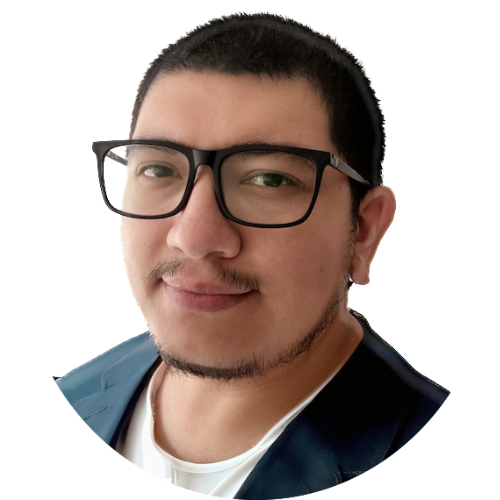
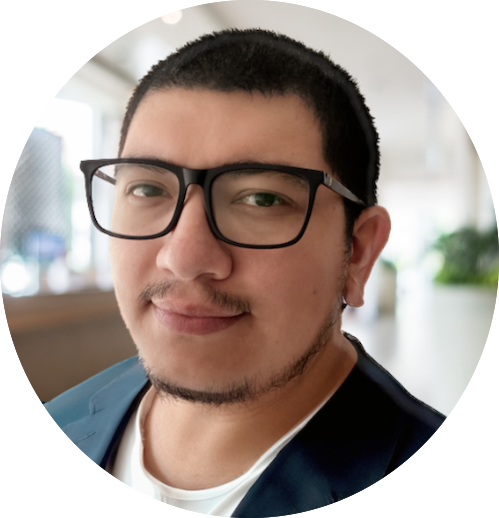
feat: actualizar enlace de formulario para dirigir datos correctamente
Se modificó la URL de destino del formulario para asegurar que los datos se envíen correctamente a la nueva ubicación.

diff --git a/js/main.js b/js/main.js
@@ -7,7 +7,6 @@ document.addEventListener("DOMContentLoaded", () => {
   const navLinksItems = document.querySelectorAll(".nav-link");
   const sections = document.querySelectorAll("section");
   const skillItems = document.querySelectorAll(".skill-item");
-  const contactForm = document.getElementById("contactForm");
   const projectCards = document.querySelectorAll(".project-card");
 
   // Función para cambiar el estilo del header al hacer scroll
@@ -74,106 +73,6 @@ document.addEventListener("DOMContentLoaded", () => {
   animateSkillsOnScroll();
   window.addEventListener("scroll", animateSkillsOnScroll);
 
-  // Validación y envío del formulario de contacto
-  if (contactForm) {
-    contactForm.addEventListener("submit", function (e) {
-      e.preventDefault();
-
-      // Obtener valores del formulario
-      const nombre = document.getElementById("nombre").value;
-      const email = document.getElementById("email").value;
-      const mensaje = document.getElementById("mensaje").value;
-
-      // Validación básica
-      if (!nombre || !email || !mensaje) {
-        showNotification("Por favor, completa todos los campos", "error");
-        return;
-      }
-
-      if (!isValidEmail(email)) {
-        showNotification("Por favor, introduce un email válido", "error");
-        return;
-      }
-
-      // Simulación de envío
-      setTimeout(() => {
-        showNotification(
-          "¡Mensaje enviado con éxito! Te responderé pronto.",
-          "success"
-        );
-        contactForm.reset();
-      }, 1500);
-
-      showNotification("Enviando mensaje...", "info");
-    });
-    
-    // Validación en tiempo real para los campos del formulario
-    const formInputs = contactForm.querySelectorAll('input, textarea');
-    
-    formInputs.forEach(input => {
-      input.addEventListener('blur', function() {
-        validateInput(this);
-      });
-      
-      input.addEventListener('input', function() {
-        if (this.classList.contains('invalid')) {
-          validateInput(this);
-        }
-      });
-    });
-    
-    function validateInput(input) {
-      const parent = input.parentElement;
-      
-      if (input.value.trim() === '') {
-        parent.classList.add('error');
-        showInputError(input, 'Este campo es obligatorio');
-        return false;
-      }
-      
-      if (input.type === 'email' && !isValidEmail(input.value)) {
-        parent.classList.add('error');
-        showInputError(input, 'Email no válido');
-        return false;
-      }
-      
-      parent.classList.remove('error');
-      hideInputError(input);
-      return true;
-    }
-    
-    function showInputError(input, message) {
-      const parent = input.parentElement;
-      let errorElement = parent.querySelector('.error-message');
-      
-      if (!errorElement) {
-        errorElement = document.createElement('span');
-        errorElement.className = 'error-message';
-        parent.appendChild(errorElement);
-      }
-      
-      errorElement.textContent = message;
-      input.classList.add('invalid');
-    }
-    
-    function hideInputError(input) {
-      const parent = input.parentElement;
-      const errorElement = parent.querySelector('.error-message');
-      
-      if (errorElement) {
-        parent.removeChild(errorElement);
-      }
-      
-      input.classList.remove('invalid');
-    }
-  }
-
-  // Función para validar email
-  function isValidEmail(email) {
-    const emailRegex = /^[^\s@]+@[^\s@]+\.[^\s@]+$/;
-    return emailRegex.test(email);
-  }
-
   // Función para mostrar notificaciones
   function showNotification(message, type = "info") {
     const existingNotification = document.querySelector(".notification");
@@ -198,7 +97,7 @@ document.addEventListener("DOMContentLoaded", () => {
       }, 300);
     }, 3000);
   }
-  
+
   // NUEVA FUNCIONALIDAD: Animación de escritura para el texto del hero
   function setupTypewriterEffect() {
     const heroTitle = document.querySelector('.hero-text h1');
@@ -206,22 +105,22 @@ document.addEventListener("DOMContentLoaded", () => {
       // Guardar el contenido original para mantener la estructura HTML
       const originalText = heroTitle.innerHTML;
       // Extraer el nombre base (sin la parte que cambiará)
-      const baseText = originalText.includes('</span>') 
+      const baseText = originalText.includes('</span>')
         ? originalText.substring(0, originalText.lastIndexOf('</span>') + 7) + ' '
         : '';
-      
+
       // Palabras que se alternarán en la animación con formato [primera palabra, segunda palabra con accent]
       const words = [
         ['Desarrollo', 'Web'],
         ['Desarrollo', 'Backend'],
         ['Soporte', 'TI']
       ];
-      
+
       // Crear un span para el cursor
       const cursor = document.createElement('span');
       cursor.classList.add('cursor');
       cursor.innerHTML = '|';
-      
+
       // Añadir estilos para el cursor
       const cursorStyle = document.createElement('style');
       cursorStyle.textContent = `
@@ -239,7 +138,7 @@ document.addEventListener("DOMContentLoaded", () => {
         }
       `;
       document.head.appendChild(cursorStyle);
-      
+
       // Función para escribir texto
       function typeText(wordPair, i, onComplete) {
         const fullText = wordPair[0] + ' ' + wordPair[1];
@@ -247,12 +146,12 @@ document.addEventListener("DOMContentLoaded", () => {
           let currentText = fullText.substring(0, i);
           // Si hemos escrito más allá de la primera palabra, aplicamos el formato
           if (i > wordPair[0].length) {
-            currentText = wordPair[0] + ' <span class="accent">' + 
+            currentText = wordPair[0] + ' <span class="accent">' +
               fullText.substring(wordPair[0].length + 1, i) + '</span>';
           }
           heroTitle.innerHTML = baseText + currentText;
           heroTitle.appendChild(cursor);
-          
+
           // Velocidad aleatoria para un efecto más realista
           setTimeout(() => typeText(wordPair, i + 1, onComplete), 100 + Math.random() * 50);
         } else if (typeof onComplete === 'function') {
@@ -260,7 +159,7 @@ document.addEventListener("DOMContentLoaded", () => {
           setTimeout(onComplete, 1500);
         }
       }
-      
+
       // Función para borrar texto
       function deleteText(wordPair, i, onComplete) {
         const fullText = wordPair[0] + ' ' + wordPair[1];
@@ -268,12 +167,12 @@ document.addEventListener("DOMContentLoaded", () => {
           let currentText = fullText.substring(0, i);
           // Si aún estamos borrando la segunda palabra
           if (i > wordPair[0].length) {
-            currentText = wordPair[0] + ' <span class="accent">' + 
+            currentText = wordPair[0] + ' <span class="accent">' +
               fullText.substring(wordPair[0].length + 1, i) + '</span>';
           }
           heroTitle.innerHTML = baseText + currentText;
           heroTitle.appendChild(cursor);
-          
+
           // Velocidad aleatoria para un efecto más realista
           setTimeout(() => deleteText(wordPair, i - 1, onComplete), 50 + Math.random() * 30);
         } else if (typeof onComplete === 'function') {
@@ -281,22 +180,22 @@ document.addEventListener("DOMContentLoaded", () => {
           setTimeout(onComplete, 500);
         }
       }
-      
+
       // Función para iniciar el ciclo de animación
       function startTypingCycle(wordIndex = 0) {
         const currentWordPair = words[wordIndex];
         const nextIndex = (wordIndex + 1) % words.length;
-        
+
         // Escribir la palabra actual
-        typeText(currentWordPair, 0, function() {
+        typeText(currentWordPair, 0, function () {
           // Luego borrarla
-          deleteText(currentWordPair, currentWordPair[0].length + 1 + currentWordPair[1].length, function() {
+          deleteText(currentWordPair, currentWordPair[0].length + 1 + currentWordPair[1].length, function () {
             // Continuar con la siguiente palabra
             startTypingCycle(nextIndex);
           });
         });
       }
-      
+
       // Iniciar la animación después de un breve retraso
       setTimeout(() => {
         // Limpiar el contenido original
@@ -552,42 +451,38 @@ document.addEventListener("DOMContentLoaded", () => {
   `;
 
   document.head.appendChild(styles);
-  
+
   // Inicializar las nuevas funcionalidades
   setupTypewriterEffect();
-  
-  // Función para manejar el envío del formulario
-  function setupContactForm() {
-    const form = document.getElementById('contactForm');
 
-form.addEventListener('submit', async (event) => {
-    event.preventDefault();
+  // Nuevo código para el manejo del formulario
+  document.getElementById("contactForm").addEventListener("submit", async function (event) {
+    event.preventDefault(); // Evita que el formulario se envíe de forma tradicional
 
-    const formData = new FormData(form);
+    const formData = {
+        nombre: document.getElementById("nombre").value,
+        email: document.getElementById("email").value,
+        mensaje: document.getElementById("mensaje").value
+    };
+
+    console.log("Enviando datos:", formData); // 👀 Verifica que los datos sean correctos
 
     try {
-        const response = await fetch('http://3.144.100.181:3000/send', {
-            method: 'POST',
-            body: formData
+        const response = await fetch("http://3.145.119.72:3000/send/", {
+            method: "POST",
+            headers: {
+                "Content-Type": "application/json"
+            },
+            body: JSON.stringify(formData)
         });
 
-        // Verifica que la respuesta sea un JSON
-        const result = await response.json(); // Aquí es donde tratamos de convertir la respuesta a JSON
+        const result = await response.json();
+        console.log("Respuesta del servidor:", result);
 
-        if (result.success) {
-            console.log(result.message);  // Mensaje de éxito
-            alert(result.message);  // Muestra el mensaje de éxito
-        } else {
-            console.error(result.error);  // Si hubo un error, mostrarlo
-            alert('Hubo un error al enviar el mensaje.');
-        }
-
+        // Mostrar mensaje de éxito
     } catch (error) {
-        console.error('Error al enviar el formulario:', error);
+        console.error("Error al enviar el formulario:", error);
     }
 });
-  }
-  
-  // Inicializar el formulario de contacto
-  setupContactForm();
+
 });

diff --git a/css/styles.css b/css/styles.css
@@ -340,27 +340,28 @@
     justify-content: center;
     align-items: center;
     position: relative;
-  }
-  
-  .hero-image-container {
+}
+
+.hero-image-container {
     width: 400px;
     height: 400px;
     border: 5px solid var(--primary-color);
     border-radius: 50%;
     overflow: hidden;
-    position: relative;
-    box-shadow: 0 0 30px rgba(100, 255, 218, 0.2); 
+    position: absolute;
+    box-shadow: 0 0 30px rgba(100, 255, 218, 0.2);
     background: linear-gradient(135deg, #d4d4d4, #e75a09);
-  }
-  
-  .hero-image-container img {
-    max-width: 100%;
+    display: flex;
+    justify-content: center; /* Centra la imagen dentro del contenedor */
+    align-items: center; /* Centra la imagen verticalmente */
+}
+
+.hero-image-container img {
+    width: 100%; /* Asegura que la imagen ocupe el 100% del contenedor */
     height: 100%;
-    object-fit:cover;
-    border-radius: 50%;
-    transform: rotate(358deg);
-    object-position: 0px 20px;
-  }
+    object-fit: cover; /* Mantiene la proporción y cubre el área del contenedor */
+}
+
   
   /* ===== SKILLS SECTION ===== */
   .skills {
@@ -947,8 +948,8 @@
     }
   
     .hero-image-container {
-      width: 350px;
-      height: 350px;
+      width: auto;
+      height: auto;
       margin-top: 0;
     }
   }

diff --git a/index.html b/index.html
@@ -212,7 +212,7 @@
                 </nav>
             </aside>
 
-            <form id="contactForm" action="http://3.144.100.181:3000/send" method="POST" class="contact-form-container">
+            <form id="contactForm" class="contact-form-container">
                 <div class="contact-form">
                     <div class="form-group">
                         <input type="text" id="nombre" name="nombre" placeholder=" " required>
